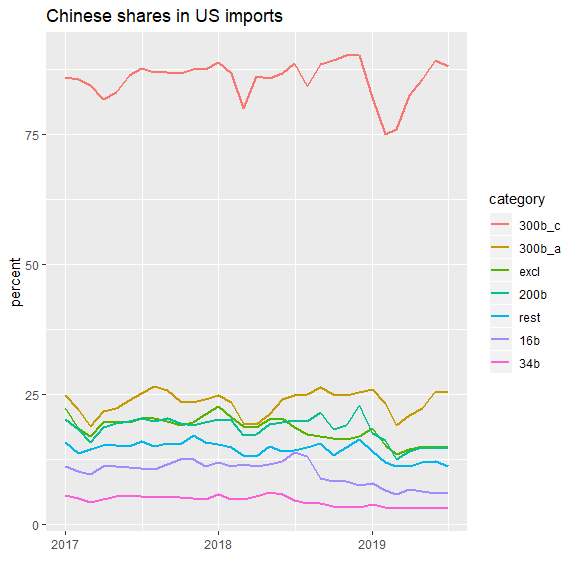
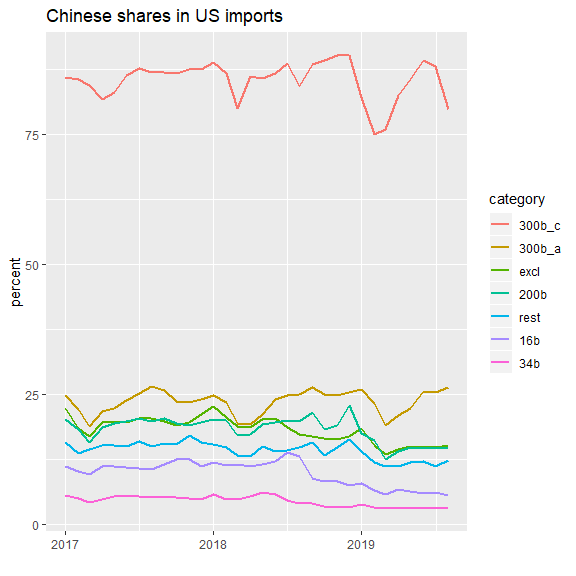
update August 2019

diff --git a/README.md b/README.md
@@ -16,7 +16,7 @@ Mitsuo Shiota
   - [Look at the Chinese share
     movements](#look-at-the-chinese-share-movements)
 
-Updated: 2019-09-09
+Updated: 2019-10-07
 
 I began to use censusapi package.
 
@@ -106,7 +106,7 @@ are 110.4 and 160.6 billion dollars respectively.
 
 ## How much imports are excluded so far?
 
-So far USTR announced exclusion lists 8 times. They specify products
+So far USTR announced exclusion lists 13 times. They specify products
 simply by HTS 10 digit code, or by product description and HTS 10 digit
 code it belong to. When I caluculate simply by HTS 10 digit code,
 exclusions amount to 16.8 billion dollars annually.
@@ -121,13 +121,14 @@ which is not imposed tariffs.
 
 What can I say from the chart below?
 
-1.  Chinese shares are the lowest in 34b, next lowest in 16b, higher in 200b,
-    even higher in 300b\_a and much much higer in 300b\_c, exactly the same 
-    order of imposing tariffs. Actually USTR states that they separate 300b
-    into 300b\_a and 300b\_c based on whether the Chinese shares are less than
-    75 percent or not in [this page](https://ustr.gov/sites/default/files/enforcement/301Investigations/Notice_of_Modification_%28List_4A_and_List_4B%29.pdf).
-    USTR tends to choose lower Chinese share goods to impose tariffs first
-    to avoid supply chain distruptions.
+1.  Chinese shares are the lowest in 34b, next lowest in 16b, higher in
+    200b, even higher in 300b\_a and much much higer in 300b\_c, exactly
+    the same order of imposing tariffs. Actually USTR states that they
+    separate 300b into 300b\_a and 300b\_c based on whether the Chinese
+    shares are less than 75 percent or not in [this
+    page](https://ustr.gov/sites/default/files/enforcement/301Investigations/Notice_of_Modification_%28List_4A_and_List_4B%29.pdf).
+    USTR tends to choose lower Chinese share goods to impose tariffs
+    first to avoid supply chain distruptions.
 
 2.  In both 34b and 16b, Chinese shares rise just before the effective
     date, and decline thereafter. This pattern reflects that importers
@@ -154,7 +155,9 @@ What can I say from the chart below?
 To confirm the point \#1 above, I draw the distribution of 2018 Chinese
 shares in HTS 10 digit goods by each tariff schedule category. Chinese
 shares in “excl” are much higher than “34b”, “16b” and “200b” from which
-“excl” is excluded. As the shares in "300b\_c" (will be effective on December 15, 2019) are much much higer than those of "excl", USTR will receive massive product exclusion requests.
+“excl” is excluded. As the shares in “300b\_c” (will be effective on
+December 15, 2019) are much much higer than those of “excl”, USTR will
+receive massive product exclusion requests.
 
 ![](README_files/figure-gfm/boxplot-1.png)<!-- -->
 
